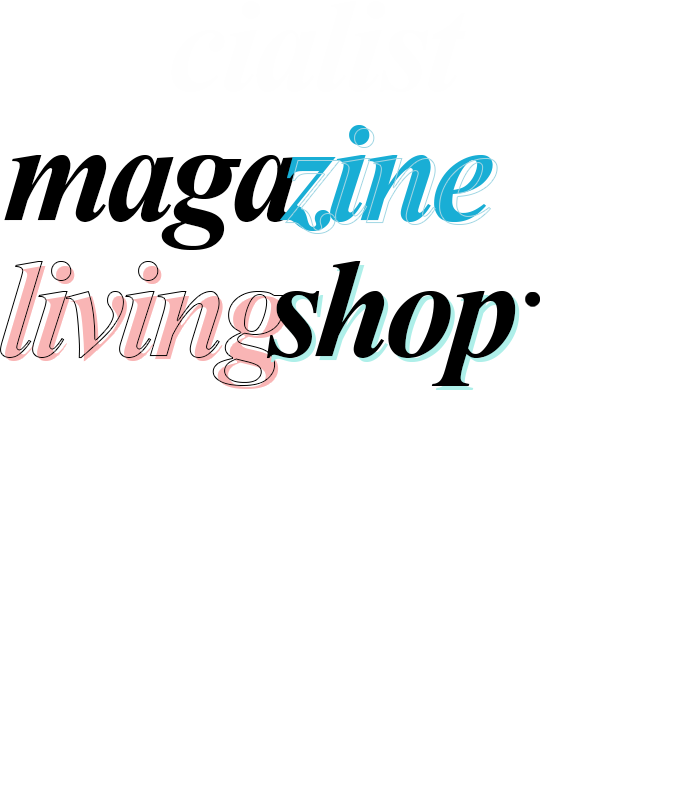
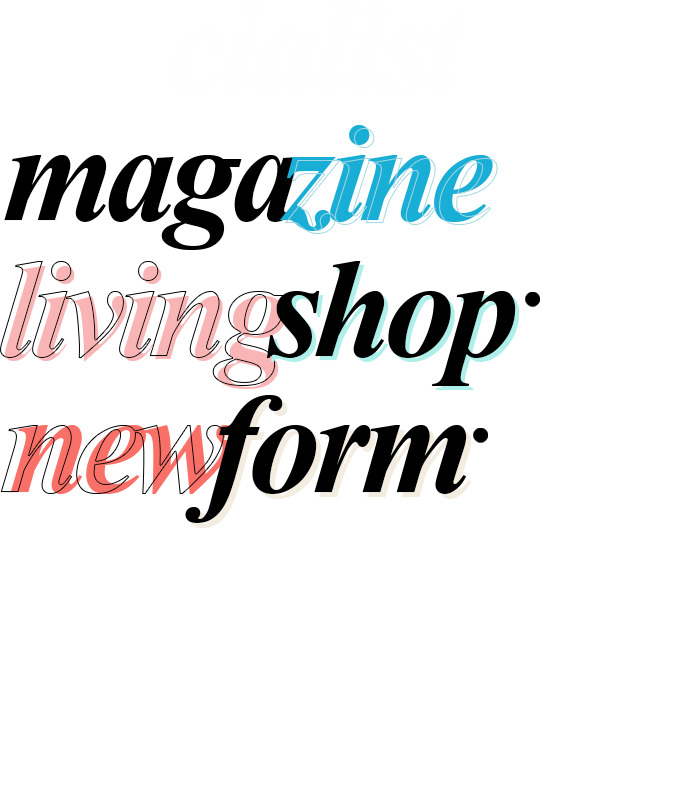
뉴폼 목록

Changed region(s): [[0.0, 0.4688, 0.72, 0.6562]]

diff --git a/src/css/11_shop.css b/src/css/11_shop.css
@@ -1,5 +1,4 @@
 .productList .container{padding-top: 0;}
-.productList .pageTit{width: 600px;height: 140px;margin-top: 20px;background-position: 0 -258px;}
 .productList .subTop .wrap{overflow: visible;padding: 0 20px;}
 .productList .subTop .subTit{display: inline-block;}
 .productList .topTit{position: absolute;top: -240px;}
@@ -12,13 +11,12 @@
 .productList .subTop .slideCon{position: absolute;z-index: 1;top: 110px;width: 100%;text-align: right;}
 .productList .subTop .slideCon .catWrap{margin-bottom: 20px;}
 .productList .subTop .slideCon .catWrap span{display: inline-block;vertical-align: middle;font-size: 16px;}
-.productList .subTop .slideCon .catWrap .cat{position: relative;color: #c2504f;}
-.productList .subTop .slideCon .catWrap .cat:after{content:'';position: absolute;bottom: 1px;left:-5px;right:-3px;height: 1px;background: #f59a9a}
-.productList .subTop .slideCon .catWrap .subCat{position: relative;margin-left:15px;padding: 7px;color: #fff;background: #f59a9a;font-style: normal;-ms-transform: skew(-20deg,0deg);-webkit-transform: skew(-20deg,00deg);transform: skew(-20deg,0deg);box-shadow: 4px 4px 0px #595485}
-.productList .subTop .slideCon .slideTit{font-size: 30px;font-family:'NotoSansL', sans-serif;line-height: 1.2em;} 
-.productList .subTop .slideCon .subTxt{margin-top: 18px;font-size: 20px;font-family:'NotoSansL', sans-serif;}
+.productList .subTop .slideCon .catWrap .cat{position: relative;}
+.productList .subTop .slideCon .catWrap .cat:after{content:'';position: absolute;bottom: 1px;left:-5px;right:-3px;height: 1px;}
+.productList .subTop .slideCon .catWrap .subCat{position: relative;min-width: 70px;margin-left:15px;padding: 7px 12px;text-align: center;font-style: normal;-ms-transform: skew(-20deg,0deg);-webkit-transform: skew(-20deg,00deg);transform: skew(-20deg,0deg);}
+.productList .subTop .slideCon .subTxt{margin: 18px 0 30px;line-height: 1.2em;font-size: 20px;font-family:'NotoSansL', sans-serif;}
 .productList .subTop .slideCon .subTxt b{font-family:'NotoSansM', sans-serif;}
-.productList .subTop .slideCon .price{margin: 30px 0;font-size: 120px;letter-spacing: -5px;}
+.productList .subTop .slideCon .price{margin-bottom:30px;font-size: 120px;letter-spacing: -5px;}
 .productList .subTop .slideCon .price span{font-size: 20px;letter-spacing: 0}
 .productList .subTop .slideCon a{display: inline-block;margin-left: 15px;font-size: 14px;vertical-align: middle;}
 .productList .subTop .slideCon .btnPost{color: #000;}
@@ -26,9 +24,25 @@
 .productList .subTop .slideCon .btnLike:before{width: 18px;}
 .productList .subTop .slideCon .btnScrap:before{width: 22px;background-position: -18px 0;}
 .productList .subTop .slideCon .btnMore{width: 155px;color: #595485;line-height: 40px;text-align: center;background: #a7dfd6;border-radius: 20px;font-family:'NotoSansM', sans-serif;}
-.productList .subTop .slideCon .btnMore:after{content: '';display: inline-block;width: 13px;height: 10px;margin-left: 5px;background: url('../images/ico_arrowb.png') no-repeat;background-position: 0 -20px;vertical-align: middle;}
+.productList .subTop .slideCon .btnMore:after{content: '';display: inline-block;width: 13px;height: 10px;margin-left: 5px;background: url('../images/cardMore_arrow.png') no-repeat;vertical-align: middle;}
 
-.productList .cardWrap{padding-top:15px; margin-top:84px}
+.shop .pageTit{width: 600px;height: 136px;margin-top: 20px;background-position: 0 -258px;}
+.shop .subTop .slideCon .slideTit{font-size: 30px;font-family:'NotoSansL', sans-serif;line-height: 1.2em;} 
+.shop .subTop .slideCon .catWrap .cat{color: #c2504f;}
+.shop .subTop .slideCon .catWrap .cat:after{background: #f59a9a}
+.shop .subTop .slideCon .catWrap .subCat{color: #fff;background: #f59a9a;box-shadow: 4px 4px 0px #595485}
+.shop .subTop .slideCon .btnMore{color: #595485;background: #a7dfd6;}
+.shop .subTop .slideCon .btnMore:after{background-position: -84px 0;}
+
+.newform .pageTit{width: 600px;height: 140px;background-position: 0 -395px;}
+.newform .subTop .slideCon .slideTit{font-size: 50px;font-family:'NotoSansL', sans-serif;line-height: 1.1em;} 
+.newform .subTop .slideCon .catWrap .cat{color: #fa7169;}
+.newform .subTop .slideCon .catWrap .cat:after{background: #f59a9a}
+.newform .subTop .slideCon .catWrap .subCat{color: #000;background: #a7dfd6;box-shadow: 4px 4px 0px #ff6460}
+.newform .subTop .slideCon .btnMore{color: #fff;background: #fa7169;}
+.newform .subTop .slideCon .btnMore:after{background-position:-98px 0;}
+
+.productList .cardWrap{overflow: hidden;margin-top:15px;}
 
 /* shop detail */
 .detailArea h3 span {display:block;font-size:60px;font-family:'NotoSansT', sans-serif;font-weight:normal;font-style:normal;}

diff --git a/src/newForm/index.html b/src/newForm/index.html
@@ -4,7 +4,7 @@
 	<!-- @@include ../_template/header.html {"title":"COMMON 샵"} -->
 </head>
 <body data-page-id="newForm">
-	<div class="wrapper productList">
+	<div class="wrapper productList newform">
 	<!-- @@include ../_template/menu.html -->
 		<div class="container">
 			<div class="subTop">
@@ -13,20 +13,19 @@
 						<li>
 							<div class="wrap">
 								<div class="slideCon">
-									<p class="catWrap italicNum"><span class="cat">{ Kitchen }</span><span class="subCat">Handmade</span></p>
-									<h3 class="slideTit">햇빛이 쨍쨍 뜨거운 여름!<br>가족을 찾아 떠나는 도리와 시원하게 보내세요~</h3>
-									<p class="subTxt">[Disney] 도리를 찾아서 <b>Glass Cup</b></p>
-									<p class="price italicNum">37,000<span> won</span></p>
+									<p class="catWrap italicNum"><span class="cat">{ unit }</span><span class="subCat">Compact</span></p>
+									<h3 class="slideTit">Common과 함께 <br>신혼집을 꾸리자!</h3>
+									<p class="subTxt">2017년 결혼예정인 예비부부를 위한<br>웨딩 인테리어 프로모션 이벤트</p>
 									<a href="" class="btnPost btnLike italicNum">123456</a>
 									<a href="" class="btnPost btnScrap italicNum">111111</a>
 									<a href="" class="btnMore">상세보기</a>
 								</div>
 							</div>
-							<img src="/images/temp26.jpg" alt="" class="fullSlideImg"/>
+							<img src="/images/temp31.jpg" alt="" class="fullSlideImg"/>
 						</li>
-						<li><img src="/images/temp26.jpg" alt="" class="fullSlideImg"/></li>
-						<li><img src="/images/temp26.jpg" alt="" class="fullSlideImg"/></li>
-						<li><img src="/images/temp26.jpg" alt="" class="fullSlideImg"/></li>
+						<li><img src="/images/temp31.jpg" alt="" class="fullSlideImg"/></li>
+						<li><img src="/images/temp31.jpg" alt="" class="fullSlideImg"/></li>
+						<li><img src="/images/temp31.jpg" alt="" class="fullSlideImg"/></li>
 					</ul>
 				</div>
 				<div class="wrap">

diff --git a/src/css/04_sub.css b/src/css/04_sub.css
@@ -115,8 +115,8 @@
 .catSorting .catSort .sortCont ul li #color10:before{background:#ffc814;}
 .catSorting .catSort .sortCont ul li #color11:before{background:#9ccc66;}
 .catSorting .catSort .sortCont ul li #color12:before{background:#48c7ff;}
-.catSorting.catSortH02 .catSort {width:292px;min-height: 550px;}
-.catSorting.catSortH02 .wrap {width:876px; overflow:hidden; position:relative; padding:0; margin:-42px 0 0 -21px;}
+.catSorting.catSortH02 .catSort {width:292px;}
+.catSorting.catSortH02 .wrap {width:876px; overflow:hidden; position:relative;min-height: 550px;padding:0; margin:-42px 0 0 -21px;}
 .catSorting.catSortH02 .wrap:before,
 .catSorting.catSortH02 .wrap:after {content:''; width:1px; height:100%; position:absolute; top:80px; background:#d9d9d9;}
 .catSorting.catSortH02 .wrap:before {left:292px;}

diff --git a/src/shop/index.html b/src/shop/index.html
@@ -4,7 +4,7 @@
 	<!-- @@include ../_template/header.html {"title":"COMMON 샵"} -->
 </head>
 <body data-page-id="shop">
-	<div class="wrapper productList">
+	<div class="wrapper productList shop">
 	<!-- @@include ../_template/menu.html -->
 		<div class="container">
 			<div class="subTop">
